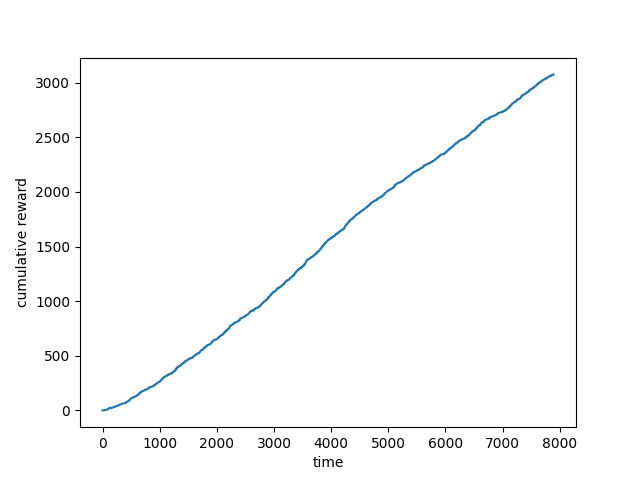
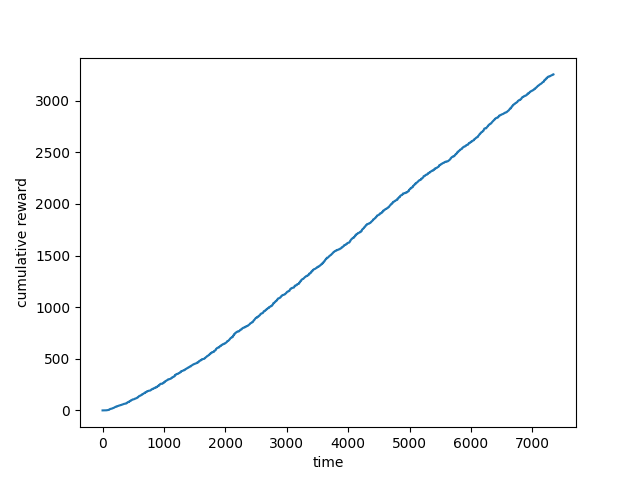
implementing replacement policies

diff --git a/cache.py b/cache.py
@@ -19,26 +19,6 @@ cache_unseen_default = 500
 cache_size_default = 20
 cache_trace_default = "test"
 
-# class LRUCache:
-#
-#     def __init__(self, capacity: int):
-#         self.capacity = capacity
-#         self.cache=OrderedDict()
-#
-#     def get(self, key: int) -> int:
-#         if key in self.cache:
-#             self.cache.move_to_end(key)
-#             return self.cache[key]
-#         else:
-#             return -1
-#
-#     def remove(self):
-#         return self.cache.popitem(last=False)
-#
-#     def put(self, key: int, value : int) -> None:
-#         self.cache[key]=value
-#         self.cache.move_to_end(key)
-
 
 class TraceSrc(object):
     '''
@@ -109,11 +89,13 @@ class CacheSim(object):
         self.cache = defaultdict(list)  # requested items with caching
         self.cache_pq = []
         # self.lru_cache = LRUCache(self.cache_size)
-        self.agent = ReplacementAgent(capacity=self.cache_size, policies=["LRU"])
+        self.agent = ReplacementAgent(capacity=self.cache_size, policies=["LRU","LFU","FIFO"])
         self.cache_remain = self.cache_size
         self.count_ohr = 0
         self.count_bhr = 0
         self.size_all = 0
+        self.object_frequency = Counter()
+        self.object_average_interarrival = Counter()
 
     def reset(self):
         self.req = 0
@@ -124,7 +106,9 @@ class CacheSim(object):
         self.count_ohr = 0
         self.count_bhr = 0
         self.size_all = 0
-        self.agent = ReplacementAgent(capacity=self.cache_size, policies=["LRU"])
+        self.agent.reset()
+        self.object_frequency = Counter()
+        self.object_average_interarrival = Counter()
 
     def step(self, action, obj):
         req = self.req
@@ -132,6 +116,8 @@ class CacheSim(object):
         cache_size_online_remain = self.cache_remain
         discard_obj_if_admit = []
         obj_time, obj_id, obj_size = obj[0], obj[1], obj[2]
+        self.object_frequency[obj_id] += 1
+
 
         # create the current state for cache simulator
         cost = 0
@@ -204,6 +190,16 @@ class CacheSim(object):
         # print("debug:", bhr, ohr)
         reward = hit * cost
 
+        if self.object_frequency[obj_id] != 1:
+            new_count = self.object_frequency[obj_id] - 1
+            cur_avg = self.object_average_interarrival[obj_id]
+            try:
+                last_interarrival = self.req - self.cache[obj_id][1]
+            except IndexError:
+                    last_interarrival = self.req - self.non_cache[obj_id][1]
+            new_avg = cur_avg + (last_interarrival - cur_avg)/new_count
+            self.object_average_interarrival[obj_id] = new_avg
+
         self.req += 1
         self.cache_remain = cache_size_online_remain
 
@@ -235,7 +231,8 @@ class CacheSim(object):
             except IndexError:
                 # Unseen objects (not in non_cache or cache) are assigned this recency constant
                 req = cache_unseen_default
-        state = [obj_size, self.cache_remain, req]
+        state = [obj_size, self.cache_remain, req, self.object_frequency[obj_id],
+                 self.object_average_interarrival[obj_id]]
 
         return state
 

diff --git a/replacement_policies/lfu.py b/replacement_policies/lfu.py
@@ -1,4 +1,4 @@
-from collections import defaultdict, OrderedDict
+from collections import defaultdict, OrderedDict, Counter
 from replacement_policies.policy_base import PolicyBase
 
 class LFUCache(PolicyBase):
@@ -8,8 +8,10 @@ class LFUCache(PolicyBase):
         self.object_to_count = {}
         self.count_to_object = defaultdict(OrderedDict)
         self.min_count = None
+        self.history = []
+        self.history_dict = Counter()
 
-    def update(self, key: int) -> None:
+    def update(self, key: int, val: int):
         if key in self.object_to_count:
             count = self.object_to_count[key]
             self.object_to_count[key] += 1
@@ -18,22 +20,48 @@ class LFUCache(PolicyBase):
             self.count_to_object[count + 1][key] = size
             if not self.count_to_object[self.min_count]:
                 self.min_count += 1
+        is_present = (key in self.history_dict)
+        return is_present
+
+    def get_remove_candidate(self):
+        return next(iter(self.count_to_object[self.min_count]))
+
+    def update_history(self):
+        candidate = self.get_remove_candidate()
+        if (len(self.history) >= self.capacity):
+            remove_item = self.history.pop(0)
+            if(self.history_dict[remove_item] == 1):
+                del self.history_dict[remove_item]
+            else:
+                self.history_dict[remove_item] -= 1
+        self.history.append(candidate)
+        self.history_dict[candidate] += 1
 
     def remove(self):
+        self.update_history()
         key ,val = self.count_to_object[self.min_count].popitem(last=False)
         del self.object_to_count[key]
         return key ,val
 
     def put(self, key: int, value : int) -> None:
+        if len(self.object_to_count) >= self.capacity:
+            self.remove()
         self.min_count = 1
         self.object_to_count[key] = 1
         self.count_to_object[1][key] = value
 
-
     def remove_key(self, key):
+        self.update_history()
         if key in self.object_to_count:
             count = self.object_to_count[key]
             del self.object_to_count[key]
             del self.count_to_object[count][key]
             if not self.count_to_object[self.min_count]:
                 self.min_count += 1
+
+    def reset(self):
+        self.object_to_count = {}
+        self.count_to_object = defaultdict(OrderedDict)
+        self.min_count = None
+        self.history = []
+        self.history_dict = Counter()

diff --git a/replacement_agent.py b/replacement_agent.py
@@ -4,6 +4,7 @@ import numpy as np
 
 from replacement_policies.lru import LRUCache
 from replacement_policies.lfu import LFUCache
+from replacement_policies.fifo import FifoCache
 
 class ReplacementAgent:
     def __init__(self, capacity, policies):
@@ -13,21 +14,30 @@ class ReplacementAgent:
         self.num_experts = len(policies)
         self.experts.append(LRUCache(capacity))
         self.current_expert = 0
+        self.hit_reward = 1
+        self.miss_reward = -0.5
         self.epsilon = 0.1
         if "LFU" in policies:
             self.experts.append(LFUCache(capacity))
+        if "FIFO" in policies:
+            self.experts.append(FifoCache(capacity))
         self.running_reward = 0
 
         self.weights = np.ones(shape=self.num_experts)
+        self.reward = np.zeros(shape=self.num_experts)
 
     def update(self, key: int, obj_size) -> None:
-        for expert in self.experts:
-            expert.update(key)
-        self.running_reward += obj_size
+        for index, expert in enumerate(self.experts):
+            is_present_in_history = expert.update(key, obj_size)
+            if is_present_in_history:
+                self.reward[index] = self.miss_reward
+            else:
+                self.reward[index] = self.hit_reward
+        self.weight_update()
 
     def remove(self):
-        self.weights[self.current_expert] *= math.pow(1  + self.epsilon,self.running_reward)
-        current_expert = int(np.random.choice(np.arange(self.num_experts), 1, self.weights/np.sum(self.weights)))
+        #print(self.weights)
+        current_expert = int(np.random.choice(np.arange(self.num_experts), 1, p=self.weights/np.sum(self.weights)))
         key ,val = self.experts[current_expert].remove()
         for i in range(self.num_experts):
             if i != current_expert:
@@ -38,3 +48,14 @@ class ReplacementAgent:
     def put(self, key: int, value : int) -> None:
         for expert in self.experts:
             expert.put(key, value)
+        self.update(key, value)
+
+    def weight_update(self):
+        for index, expert in enumerate(self.experts):
+            self.weights[index] *= math.pow(1 + self.epsilon, self.reward[index])
+
+    def reset(self):
+        for expert in self.experts:
+            expert.reset()
+        self.weights = self.weights/np.sum(self.weights)
+        self.current_expert = 0

diff --git a/replacement_policies/fifo.py b/replacement_policies/fifo.py
@@ -1,21 +1,20 @@
-from collections import OrderedDict, Counter
+from collections import Counter
 from replacement_policies.policy_base import PolicyBase
 
-class LRUCache(PolicyBase):
+class FifoCache(PolicyBase):
 
     def __init__(self, capacity: int):
         self.capacity = capacity
-        self.cache=OrderedDict()
+        self.cache_stack = []
+        self.value_dict = {}
         self.history = []
         self.history_dict = Counter()
 
-    def update(self, key: int, val : int):
-        self.cache.move_to_end(key)
-        is_present = (key in self.history_dict)
-        return is_present
+    def update(self, key: int, val: int):
+        return (key in self.history_dict)
 
     def get_remove_candidate(self):
-        return next(iter(self.cache))
+        return self.cache_stack[-1]
 
     def update_history(self):
         candidate = self.get_remove_candidate()
@@ -30,20 +29,25 @@ class LRUCache(PolicyBase):
 
     def remove(self):
         self.update_history()
-        return self.cache.popitem(last=False)
+        key = self.cache_stack.pop()
+        val = self.value_dict[key]
+        del self.value_dict[key]
+        return key ,val
 
     def put(self, key: int, value : int) -> None:
-        if len(self.cache) >= self.capacity:
+        if len(self.cache_stack) >= self.capacity:
             self.remove()
-        self.cache[key]=value
-        self.cache.move_to_end(key)
+        self.cache_stack.append(key)
+        self.value_dict[key] = value
 
     def remove_key(self, key):
         self.update_history()
-        if key in self.cache:
-            del self.cache[key]
+        if key in self.cache_stack:
+            self.cache_stack.remove(key)
+            del self.value_dict[key]
 
     def reset(self):
-        self.cache = OrderedDict()
+        self.cache_stack = []
+        self.value_dict = {}
         self.history = []
         self.history_dict = Counter()

diff --git a/main.py b/main.py
@@ -29,7 +29,7 @@ def semi_gradient_sarsa_with_linear_approx(env, train, test):
     actions = [0, 1]
     gamma = 1
     alpha = 0.01
-    L = LinearApproximation(3, 2, alpha)
+    L = LinearApproximation(4, 2, alpha)
     semi_gradient_sarsa(env, gamma, alpha, L, epsilon, train, actions)
     rewards, bhr = semi_gradient_sarsa(env, gamma, alpha, L, epsilon, test, actions)
     get_metrics(test, 0, rewards, bhr, "experiments/graphs/semi_gradient_sarsa.png")

diff --git a/replacement_policies/policy_base.py b/replacement_policies/policy_base.py
@@ -3,7 +3,13 @@ class PolicyBase:
     def __init__(self, capacity: int):
         pass
 
-    def update(self, key: int) -> None:
+    def update(self, key: int, val: int) -> bool:
+        pass
+
+    def get_remove_candidate(self):
+        pass
+
+    def update_history(self):
         pass
 
     def remove(self):
@@ -13,4 +19,7 @@ class PolicyBase:
         pass
 
     def remove_key(self, key):
+        pass
+
+    def reset(self):
         pass

diff --git a/trace_loader.py b/trace_loader.py
@@ -13,7 +13,7 @@ def load_traces(trace, cache_size, rnd):
         df = pd.read_csv(trace_folder + 'test_trace/test_' + str(rnd)  + '.tr', sep=' ', header=None)
         # remaining cache size, object last access time
         df[3], df[4] = cache_size, 0
-        #df[2] = 1
+        df[2] = 1
 
     elif trace == 'real':
        df = []
